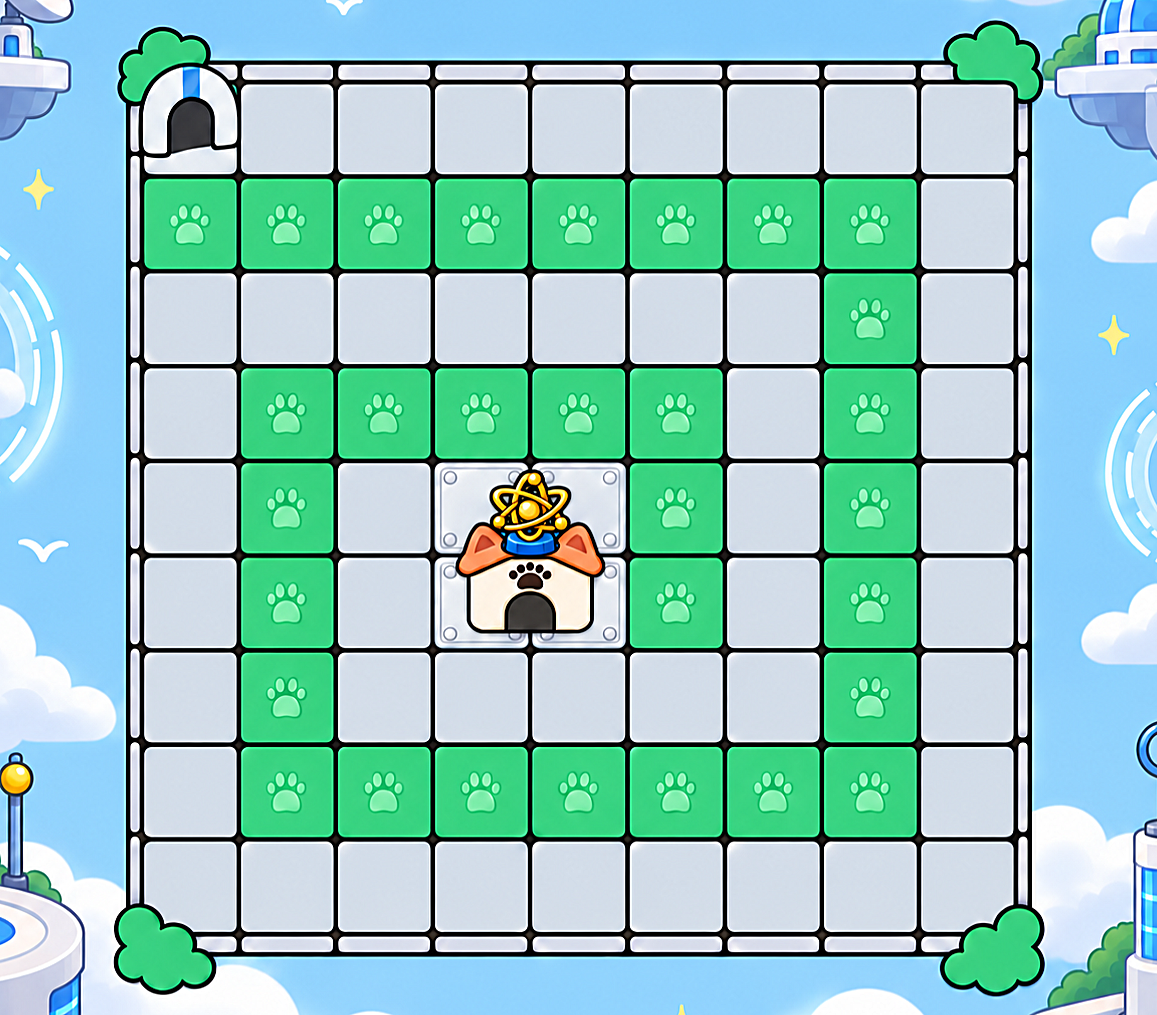
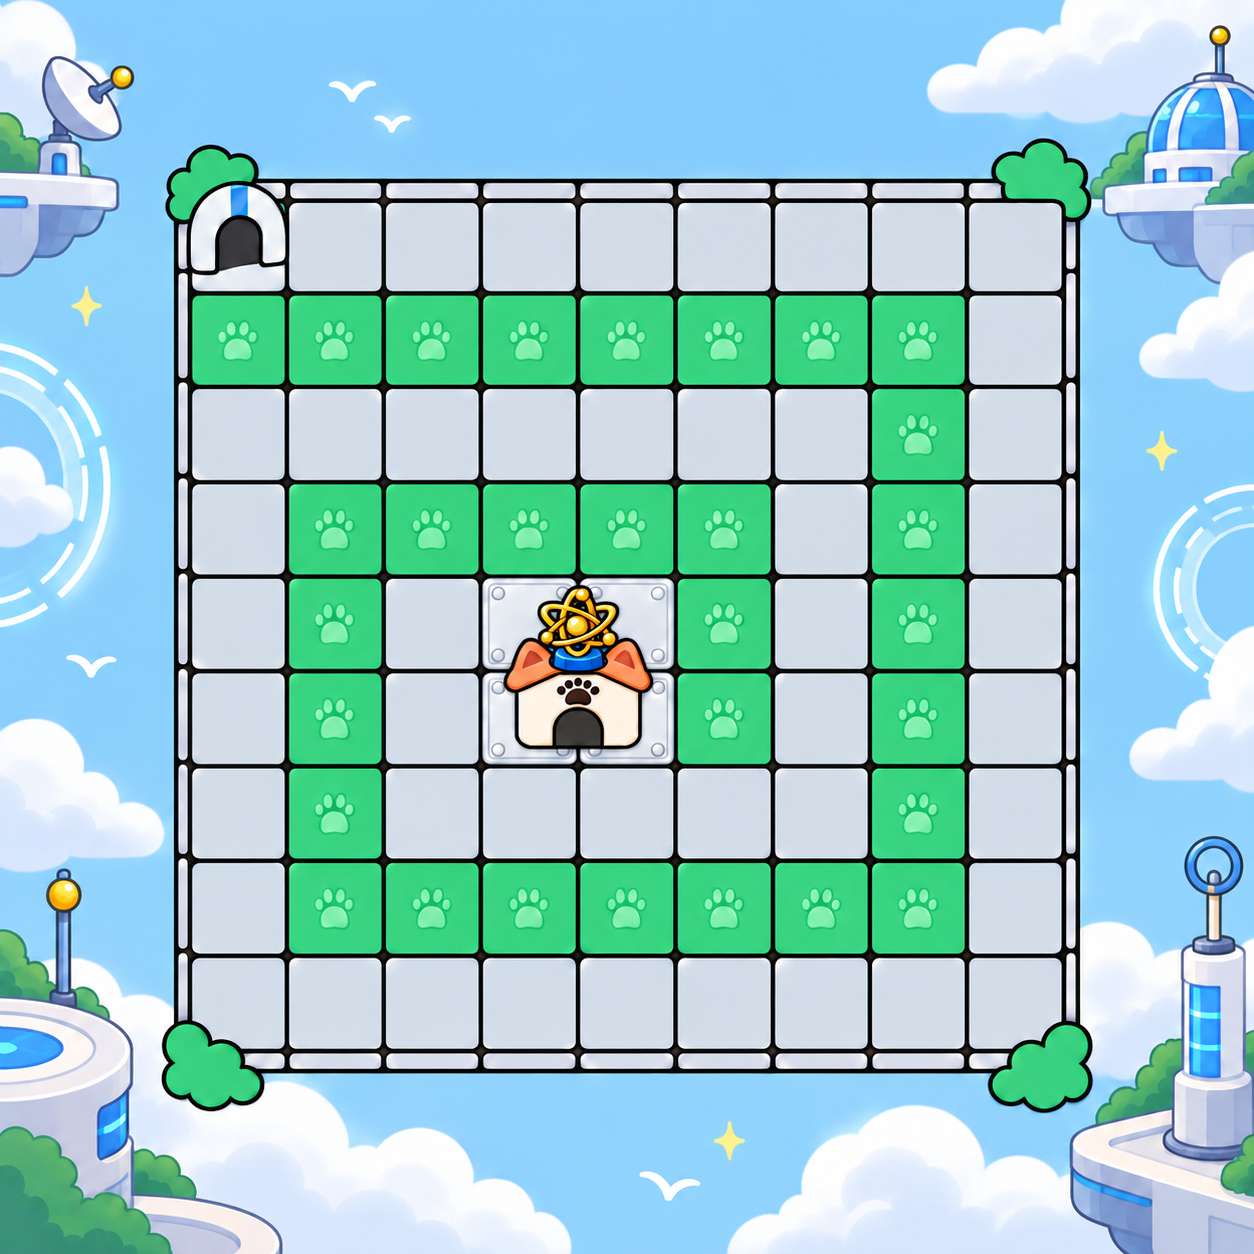
맵 비율 및 밸런스 패치

diff --git a/public/game.js b/public/game.js
@@ -118,21 +118,28 @@ const CATS = {
   },
   /*
    * 국제출원냥 — 다중조준. 「여러 건을 한꺼번에 들이대는」 냥이라 🩸 고의 입증(연사형 카드)을
-   * 우선심사냥과 함께 받는다 (BAL.rapidTargets). 그 대신 사거리를 118 → 106 으로 조금 줄였다 —
-   * 앞줄에 붙어야 값을 하는 냥이 뒤에서도 셋을 노리면 카드까지 얹어 너무 셌다.
+   * 우선심사냥과 함께 받는다 (BAL.rapidTargets).
+   *
+   * dmg 7→8 · range 106→118: 청사 판에서 **혼자서는 아무것도 못 죽였다.** 셋을 같이 때리는 만큼 한 마리에
+   * 들어가는 피해가 1/3 이라, 줄지어 지나가는 쥐가 사거리를 벗어날 때까지 죽지 않고 다 새어 나갔다
+   * (라운드 3 · 혼자: 58마리 중 0.7마리 처치 — 출원냥은 20마리). 사거리를 다른 냥과 같은 118 로 되돌리고
+   * 한 방을 8 로 올려 혼자서도 출원냥만큼은 하고(17마리), 둘이면 출원냥 둘보다 빨리 끝내도록(46초 vs 53초)
+   * 맞췄다 — 임용가 75 값이다. 대전장 사거리는 duel.range 로 예전 값(81px)에 못 박아 두었다.
    */
   pct: {
     name: "국제출원냥", row: 2, arow: 3, kind: "atk",
-    dmg: 7, rate: 1.6, range: 106, targets: 3, tag: "다중조준", cost: 75, weight: 5,
+    dmg: 8, rate: 1.6, range: 118, targets: 3, tag: "다중조준", cost: 75, weight: 5,
     critC: 0.12, critM: 1.6,
-    desc: "사거리는 짧지만 한 번에 3마리를 동시에 때린다.",
+    desc: "한 번에 3마리를 동시에 때린다 — 여럿이 몰릴수록 값을 한다.",
     filter: "hue-rotate(40deg) saturate(1.45)",
     icon: "🌐",
-    // 대전장 — 셋을 같이 노리는 값을 한 방으로 키운다. hp 는 임용가 190→70 전의 체력(≈548)을 유지
-    /* hp 1.93→2.6 · spd 1.3: 앞줄로 빨리 붙어야 셋을 동시에 노릴 수 있는데, 걸어가는 동안 저격수
-     * (특허범위냥, 방어무시 45)에게 먼저 녹아 버렸다. 발을 빠르게 하고 몸을 두껍게 해 사거리 안까지
-     * 살아서 닿게 한다 — 방어 대신 체력인 것은 방어무시가 못 깎는 쪽이 체력이기 때문이다 */
-    duel: { hp: 2.6, dmg: 2.9, spd: 1.3 },
+    /* 대전장 — hp 2.6→1.2 · dmg 2.9→0.875: 예전 값은 체력 767 · 셋 동시 초당 피해 96 으로 출원냥(301 · 22)의
+     * 열 배가 넘어, 어떤 덱을 만나도 40판 중 40판을 이겼다 (임용가 190→75 로 내릴 때 체력 배율을 같이 안 줄였다).
+     * 지금은 체력 354 · 한 방 3.15 × 3 표적 — 출원냥·보정명령냥 덱은 이기고, 방어를 가진 우선심사냥 탱커·승진 덱·
+     * 걸어가는 동안 저격하는 특허범위냥에게는 진다. 한 방이 가벼워 방어(ar)에 깎이는 것이 이 냥의 약점이다.
+     * range 81 은 예전 106 × 0.76 — 청사 사거리를 118 로 올리면서 대전장에서는 그대로 두었다.
+     * spd 1.3: 앞줄로 빨리 붙어야 셋을 동시에 노릴 수 있다 */
+    duel: { hp: 1.2, dmg: 0.875, range: 81, spd: 1.3 },
   },
   /*
    * 우선심사냥 — 가장 빠르고 가장 가벼운 연사형. 🎯 입증(치명타) 계열의 주인공이다.
@@ -7547,15 +7554,15 @@ function escapeHtml(s) {
  *
  * 원화 액자가 10:9(1000×900)로 넓어지면서 칸 비율과 안 맞는 경우가 생겼다 — 1080 전체화면은 칸이
  * 964×908 이라 폭에 먼저 걸려 아래 40px 이 비고, 보통 창(964×780쯤)은 높이에 걸려 양옆이 빈다.
- * 그래서 이제 액자를 「덮기」로 맞춘다: 폭·높이 중 큰 쪽 배율로 키우고, 넘치는 쪽은 원화의 바깥
- * 여백(잔디·나무)을 깎아 낸다. 판 자체는 절대 잘리지 않는다 — 여백은 ARENA_PAD_MIN 까지만 깎고,
- * 그래도 안 들어가면 그때부터 배율을 줄인다. 깎는 건 padding 을 줄이고 원화를 같은 크기로 고정한 채
- * 위치만 밀어서 한다 (background-size 를 액자 원래 크기로, position 을 음수로).
+ * 한때는 액자를 「덮기」로 맞췄다 — 폭·높이 중 큰 쪽 배율로 키우고 넘치는 쪽 여백(잔디·나무)을 깎았는데,
+ * 창 비율에 따라 세 전장 원화의 **테두리(양옆 나무·덤불)가 늘 조금씩 잘려 보였다.** 이제는 「안에 넣기」다:
+ * 폭·높이 중 **작은** 쪽 배율로 맞춰 액자 전체가 늘 온전히 보이고, 비율은 절대 찌그러지지 않는다.
+ * 남는 쪽은 그냥 비워 둔다 — 폭이 남으면 가운데 칸 안에서 가운데 정렬, 높이가 남으면 fitColsToBoard 가
+ * 패널을 판 높이에 맞춰 줄인다 (fitCenterCol 이 먼저 가운데 칸을 「높이에 맞춘 액자 폭」까지 넓혀 두므로
+ * 대개는 남는 쪽이 거의 없다).
  */
 let boardScale = 1;
 const BOARD_SCALE_MAX = 1.6;
-/** 원화 여백을 깎아도 남겨 둘 최소 두께 [세로, 가로] — 액자 돌띠(판 바로 옆 20px)와 귀퉁이 덤불이 대부분 보이는 선 */
-const ARENA_PAD_MIN = [36, 30];
 let fitKey = "";
 
 /* ── 창이 좁으면 화면 전체를 비율대로 줄인다 ──
@@ -7602,17 +7609,14 @@ function fitArena(force) {
   if (!bw || !bh || !box.clientHeight) return;
   fitCenterCol(cols, box, w, h);
   const bxW = box.clientWidth, bxH = box.clientHeight;
-  // 덮기 배율 — 단, 여백을 최소치까지 깎아도 판이 안 들어가는 쪽이 있으면 거기에 맞춰 줄인다
-  let s = Math.min(BOARD_SCALE_MAX, Math.max(bxW / w, bxH / h));
-  s = Math.min(s, bxW / (bw + ARENA_PAD_MIN[1] * 2), bxH / (bh + ARENA_PAD_MIN[0] * 2));
-  const vw = Math.min(w, bxW / s), vh = Math.min(h, bxH / s);   // 이 배율에서 칸에 보이는 액자 크기
-  const cx = (w - vw) / 2, cy = (h - vh) / 2;                    // 양쪽에서 똑같이 깎는 두께
-  a.style.padding = `${pad[0] - cy}px ${pad[1] - cx}px ${pad[2] - cy}px ${pad[3] - cx}px`;
+  // 안에 넣기 배율 — 폭·높이 중 먼저 걸리는 쪽에 맞춘다. 액자는 통째로 보이고 어느 쪽도 잘리지 않는다
+  const s = Math.min(BOARD_SCALE_MAX, bxW / w, bxH / h);
+  a.style.padding = pad.map((v) => `${v}px`).join(" ");         // 원화 액자의 온전한 여백 그대로
   a.style.backgroundSize = `${w}px ${h}px`;
-  a.style.backgroundPosition = `${-cx}px ${-cy}px`;
+  a.style.backgroundPosition = "0 0";
   boardScale = s;
   a.style.transform = s !== 1 ? `scale(${s})` : "none";
-  fitColsToBoard(box, vh * s);
+  fitColsToBoard(box, h * s);
 }
 
 /**

diff --git a/README.md b/README.md
@@ -88,9 +88,11 @@ npm start
   - 📄 **출원냥 = 중근거리 딜러.** 사거리 70(탱커 바로 뒤) · 체력 1.15배.
   - 📐 **특허범위냥 = 원거리 딜러.** 맨 뒤에서 한 방 1.7배(판 공격력 26 기준) · 체력 1.0배. 방어무시 45 가 탱커를 뚫습니다.
   - ⏳ **보정명령냥 = 발 묶기.** 둔화(상대의 걸음과 공속을 같이 늦춘다)에 더해 **명중마다 12% 확률로 0.35초 정지**.
-  - 🌐 **국제출원냥** 은 셋을 같이 노리는 값이 임용가를 따라오도록 한 방 2.9배. (최신) **체력 2.6배 · 걸음 1.3배** —
-    사거리 안까지 살아서 닿아야 셋을 노릴 수 있는데 걸어가는 동안 저격수에게 먼저 녹았습니다. 방어가 아니라 체력인 것은
-    방어무시가 못 깎는 쪽이 체력이기 때문입니다.
+  - 🌐 **국제출원냥 = 앞줄 다중조준.** (최신) **체력 1.2배 · 한 방 0.875배(판 공격력 8 기준 → 3.15 × 3표적) · 걸음 1.3배 ·
+    사거리 81 고정.** 예전 값(체력 2.6배 · 한 방 2.9배)은 임용가를 190→75 로 내릴 때 배율을 같이 안 줄여 체력 767 ·
+    초당 피해 96 — 출원냥(301 · 22)의 열 배가 넘어 어떤 덱을 만나도 다 이겼습니다. 지금은 출원냥·보정명령냥 덱은 이기고,
+    방어를 가진 우선심사냥 탱커 · 승진 덱 · 걸어가는 동안 저격하는 특허범위냥에게는 집니다 — 한 방이 가벼워 방어에 깎이는
+    것이 약점입니다.
   - 💼 **변리사냥 = 회복.** 맨 뒤에서 가장 다친 아군을 0.5초마다 `3 + 최대 체력 0.6%` 회복 (초당 10 남짓 —
     공격 한 명이 내는 피해의 1/3). (최신) 예전 `6 + 2.5%` 는 체력이 두 배로 오른 뒤 손보지 않아 초당 30 을 넘겼고,
     힐러 하나가 공격수 하나를 통째로 지워 싸움이 안 끝났습니다. 이제 힐러만으로는 이기지 못하고 셋이 붙어야 공격 한 명을
@@ -290,7 +292,7 @@ npm start
   곱연산에서 제일 자주 터지는 구멍입니다.
 - **조건부 강화의 판정 기준은 「기본 공속」입니다** (`CATS[key].rate`). 🩸 고의 입증만은 「여러 건을
   들이대는」 냥이면 되므로 **기본 동시조준 2 이상**(🌐 국제출원냥)도 함께 받습니다 (`BAL.rapidTargets`) —
-  대전장 앞줄에 서는 둘이 같은 카드로 자라도록 한 것이고, 그 대신 국제출원냥의 사거리를 118 → 106 으로 조금 줄였습니다. 레벨·증강·보좌로 흔들리는
+  대전장 앞줄에 서는 둘이 같은 카드로 자라도록 한 것입니다 (한때 그 대신 사거리를 118 → 106 으로 줄였는데, 청사 판에서 혼자서는 아무것도 못 죽여 118 로 되돌렸습니다 — 대전장 사거리는 81 로 그대로). 레벨·증강·보좌로 흔들리는
   실제 공속을 보면 「지금 이 냥이 무거운 냥인가」가 프레임마다 뒤집혀, 무엇이 걸렸는지 화면에서
   읽을 수 없게 됩니다. **사거리만 예외로 「실제 사거리」를 봅니다** — 「명세서 보정」으로 사거리를
   늘려 원래 짧던 냥을 조건 안으로 밀어 넣는 것이 📐 권리범위 덱의 재미 그 자체이기 때문입니다.
@@ -400,7 +402,7 @@ npm start
 | ⚡ 우선심사냥 | 65 | **5** / **6.4** | **연사** — 잡졸엔 출원냥 1.3배 · 치명타 30% ×1.7 · 방어에 막힌다 | 🎯 입증 |
 | ⏳ **보정명령냥** | 65 | 5 / 1.5 | **둔화 42% · 1.6초** — 옆 냥을 세게 만든다 | ⏳ 절차 |
 | 📐 특허범위냥 | 70 | **26** / **0.5** | **저격** — 가장 느리다 · 사거리 304 · 방어무시 45 | 📐 권리범위 |
-| 🌐 국제출원냥 | 75 | 7 / 1.6 | 3인 동시조준 — 무리엔 강하고 탱커엔 무력 | 💼 대리 |
+| 🌐 국제출원냥 | 75 | 8 / 1.6 | 3인 동시조준 — 무리엔 강하고 탱커엔 무력 (한 방 7→8 · 사거리 106→118: 혼자서도 출원냥만큼은 하도록) | 💼 대리 |
 | 💼 변리사냥 | 80 | — | 보좌(비공격) — 인접 화력 ×1.25 · 공속 ×1.15 | 💼 대리 |
 
 임용가는 **출원냥 60 을 기준**으로, 방어 1·8·13 상대의 기대 DPS(치명타 포함)에 사거리·부가효과 값어치를 얹어 매겼습니다.
